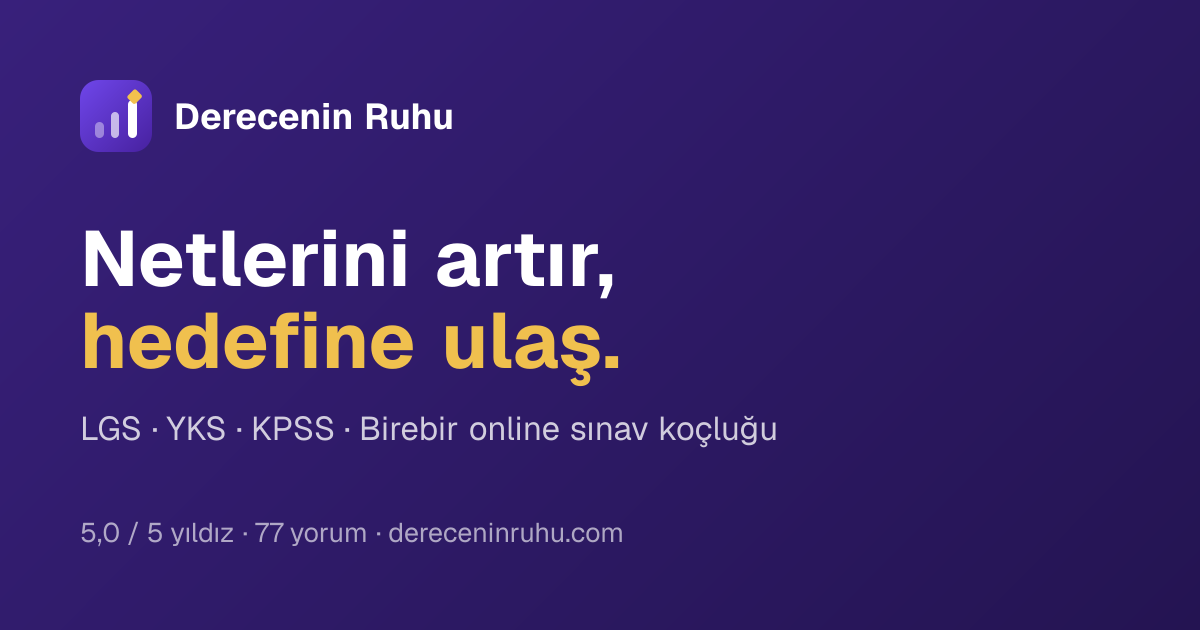
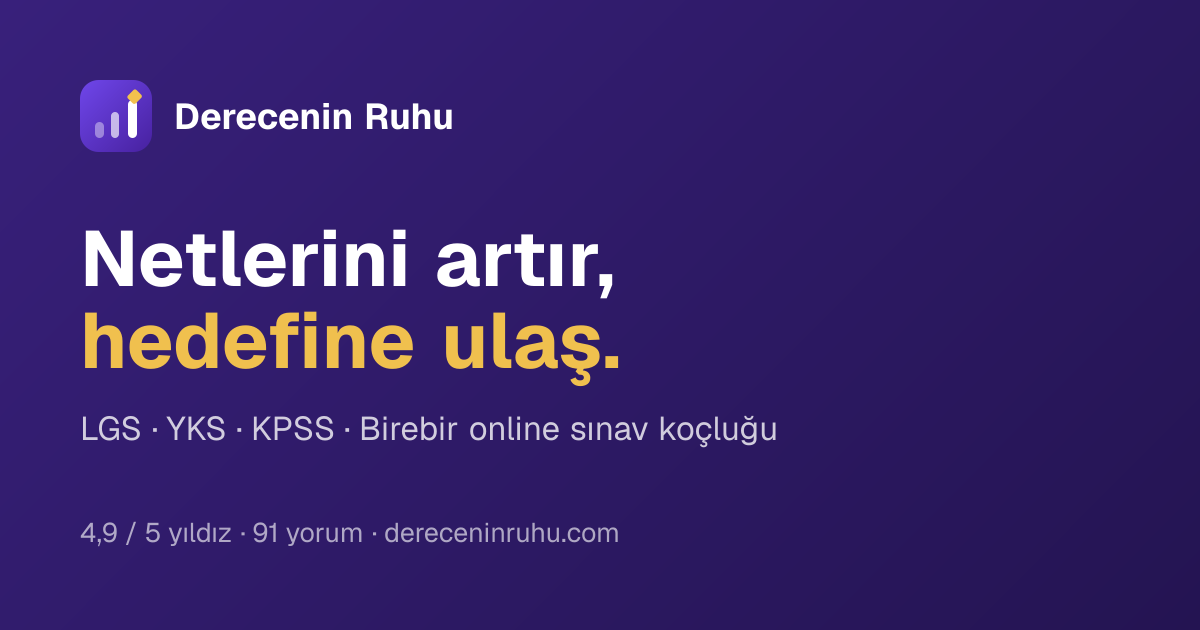
chore: Gigbi yorum sayısı 83 → 91 (4,9★)
Sayı coachStats'ta güncellendi. Üç sayfanın meta açıklaması ile OG kapağı
rakamı elle taşıyordu (kapakta hâlâ '5,0 / 77 yorum' yazıyordu); meta
açıklamalar artık coachStats/ratingLabel'dan okuyor, og.png yeniden üretildi.

Changed region(s): [[0.0617, 0.8143, 0.5242, 0.8746]]

diff --git a/src/db/seed/cms-content.ts b/src/db/seed/cms-content.ts
@@ -1,6 +1,6 @@
 /**
  * Faz 3 CMS içerik modülü — Ahmet Hakan Almak'ın Gigbi profilinden
- * (gigbi.com/p/ahmet-hakan-almak1723581674 — 4.9★, 83 yorum) türetilen gerçek
+ * (gigbi.com/p/ahmet-hakan-almak1723581674 — 4.9★, 91 yorum) türetilen gerçek
  * içerik + koçluk sitesi için yazılmış SSS / paket / blog tohumları.
  *
  * Saf veri modülü — server, client ve seed script'ten güvenle import edilir.
@@ -38,7 +38,7 @@ export const coachContent = {
 /** Marka düzeyi sosyal kanıt — Gigbi kaynaklı; tablo değil sabit. */
 export const coachStats = {
   ratingAvg: 4.9,
-  reviewCount: 83,
+  reviewCount: 91,
   proofUrl: "https://www.gigbi.com/p/ahmet-hakan-almak1723581674",
 } as const;
 

diff --git a/src/app/(pazarlama)/page.tsx b/src/app/(pazarlama)/page.tsx
@@ -46,7 +46,7 @@ export const dynamic = "force-dynamic";
 export const metadata = buildMetadata({
   titleAbsolute: "Derecenin Ruhu — LGS, YKS ve KPSS Birebir Koçluk",
   description:
-    "Derece yapmış bir koçla birebir sınav koçluğu: haftalık program, soru takibi ve deneme analiziyle netlerini artır, hedefine ulaş. 4,9★ / 83 yorum.",
+    `Derece yapmış bir koçla birebir sınav koçluğu: haftalık program, soru takibi ve deneme analiziyle netlerini artır, hedefine ulaş. ${ratingLabel}★ / ${coachStats.reviewCount} yorum.`,
   path: "/",
 });
 

diff --git a/src/app/(pazarlama)/koclar/page.tsx b/src/app/(pazarlama)/koclar/page.tsx
@@ -34,7 +34,7 @@ export const dynamic = "force-dynamic";
 export const metadata = buildMetadata({
   title: "Koçlar",
   description:
-    "Ahmet Hakan Almak — YKS Türkiye 876., KPSS 93 puan. 3+ yıldır LGS, YKS ve KPSS öğrencilerine birebir koçluk. 4,9★ / 83 yorum.",
+    `Ahmet Hakan Almak — YKS Türkiye 876., KPSS 93 puan. 3+ yıldır LGS, YKS ve KPSS öğrencilerine birebir koçluk. ${ratingLabel}★ / ${coachStats.reviewCount} yorum.`,
   path: "/koclar",
 });
 

diff --git a/src/app/(pazarlama)/basarilar/page.tsx b/src/app/(pazarlama)/basarilar/page.tsx
@@ -25,8 +25,7 @@ export const dynamic = "force-dynamic";
 
 export const metadata = buildMetadata({
   title: "Başarı Hikayeleri",
-  description:
-    "Derecenin Ruhu öğrencilerinin ve velilerinin gerçek yorumları — Gigbi üzerinde 4,9 yıldız ortalama, 83 yorum.",
+  description: `Derecenin Ruhu öğrencilerinin ve velilerinin gerçek yorumları — Gigbi üzerinde ${ratingLabel} yıldız ortalama, ${coachStats.reviewCount} yorum.`,
   path: "/basarilar",
 });
 
